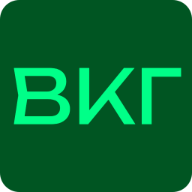
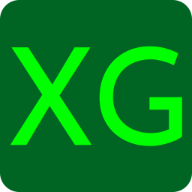
Обновить название приложения

Changed region(s): [[0.0312, 0.2188, 0.9688, 0.7812]]

diff --git a/README.md b/README.md
@@ -39,4 +39,4 @@ npm run deploy
 
 ## Ссылки
 
-[Ваш Каталог Групп](https://vk.com/app51658481)
+[Хранитель Групп](https://vk.com/app51658481)
